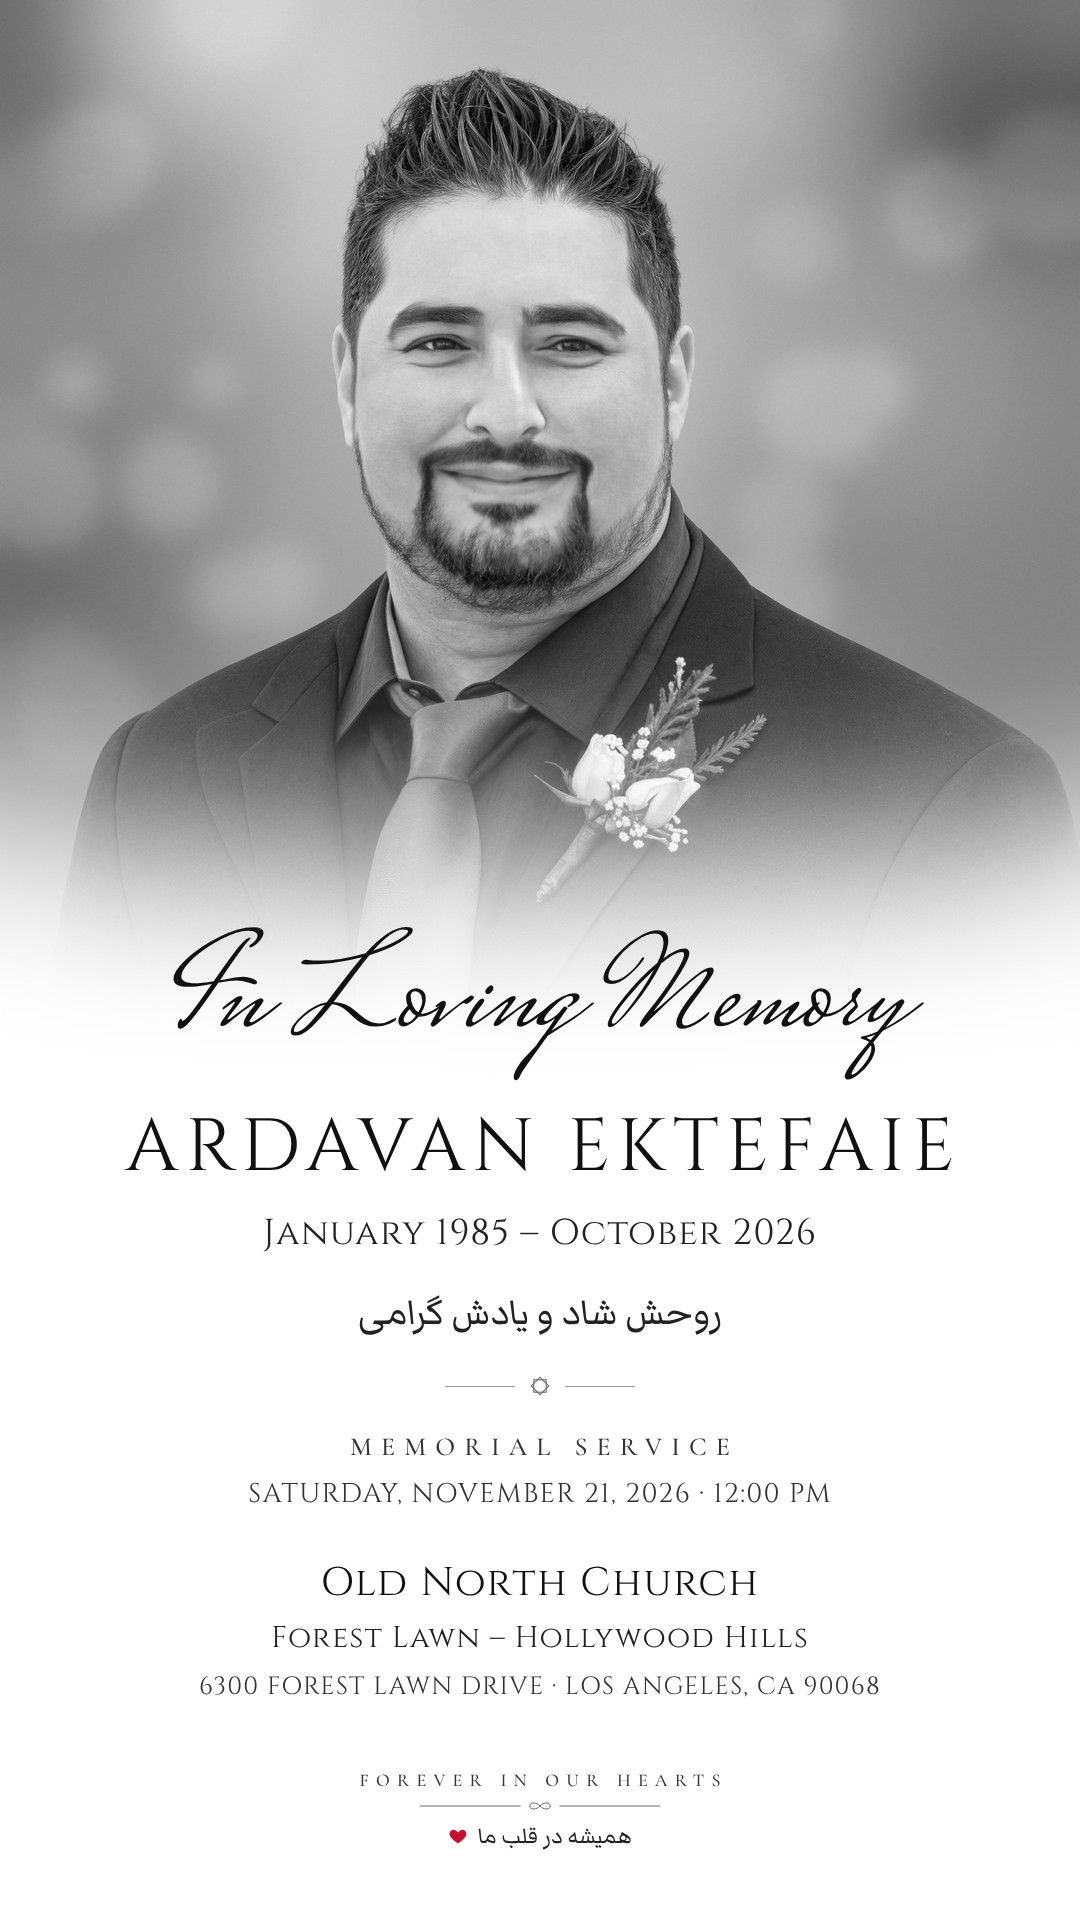
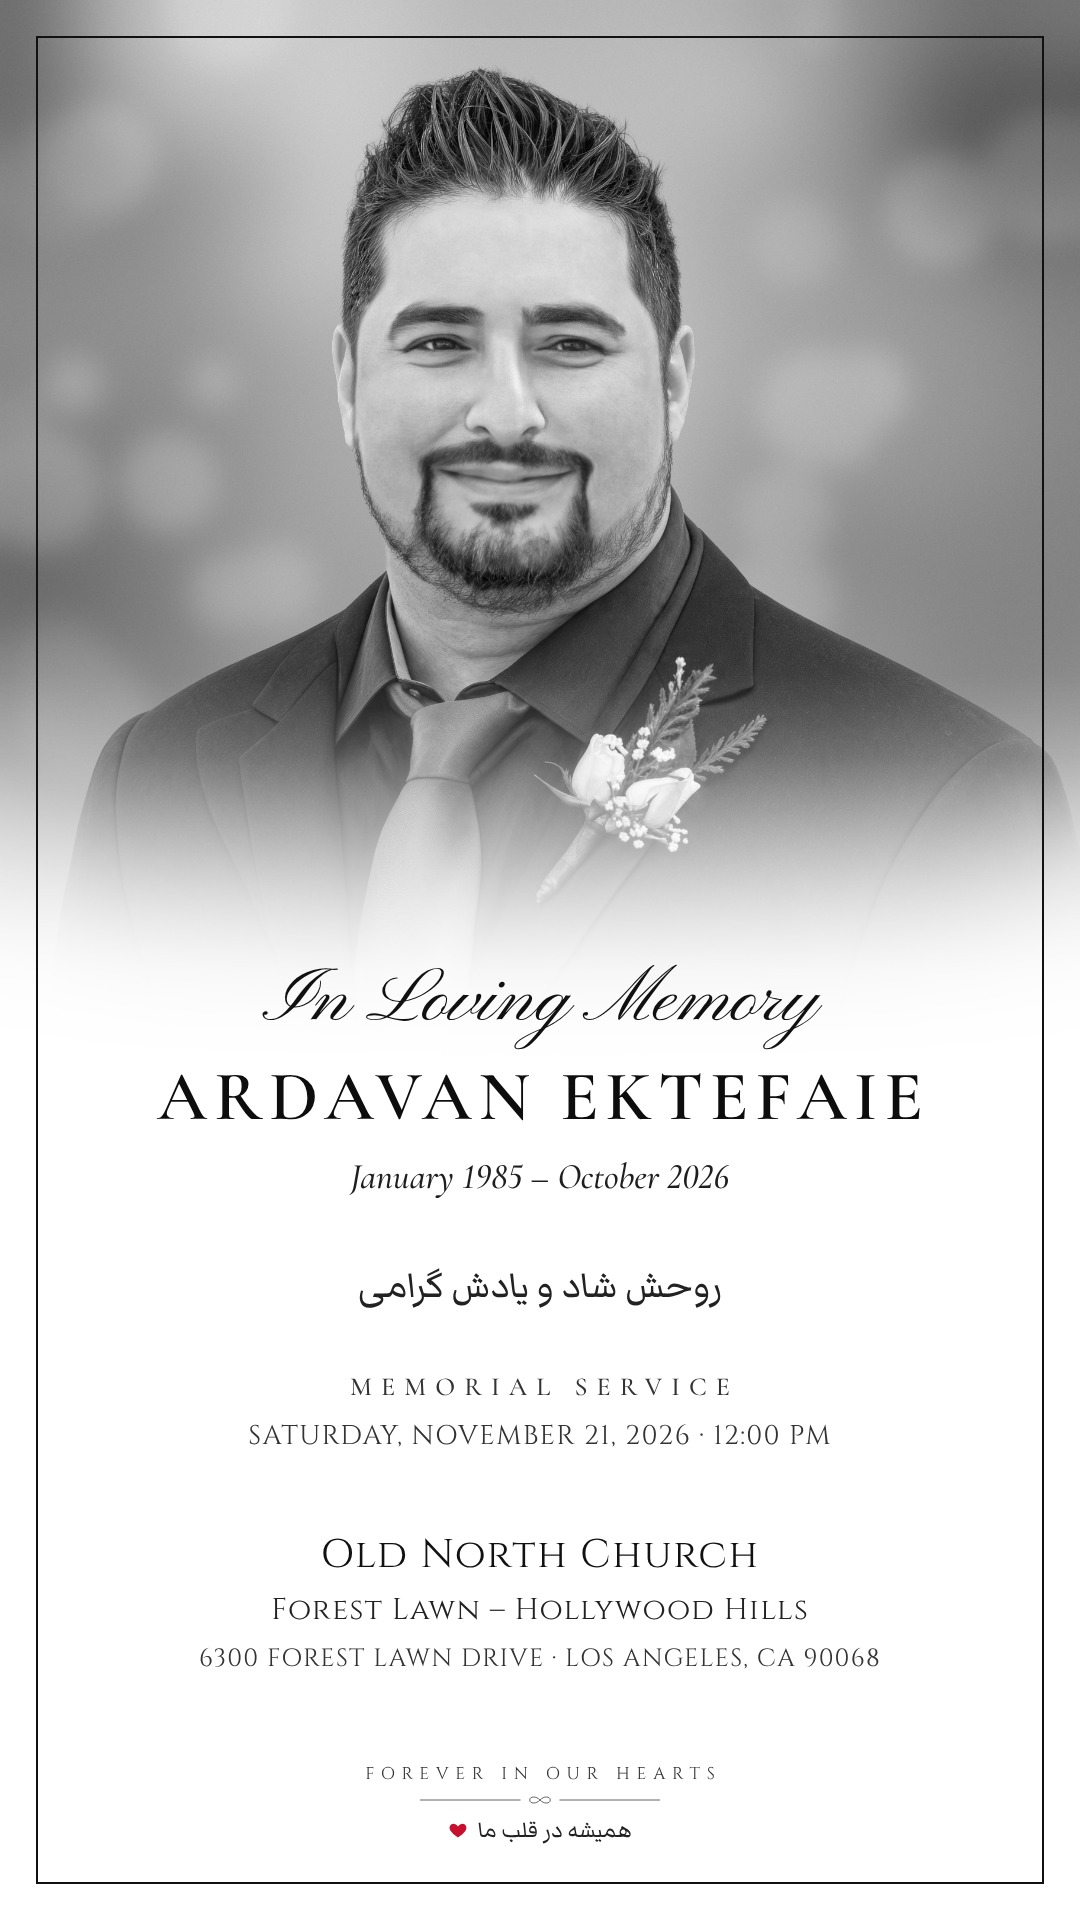
Final design (Dad's pick) for Cloudflare Pages

Changed region(s): [[0.1222, 0.4688, 0.8861, 0.875], [0.3667, 0.9062, 0.5806, 0.9688], [0.7333, 0.75, 0.7639, 0.7812]]

diff --git a/index.html b/index.html
@@ -7,10 +7,10 @@
 <meta name="description" content="Memorial Service · Saturday, November 21, 2026 · 12:00 PM · Old North Church, Forest Lawn – Hollywood Hills">
 <meta name="robots" content="noindex, nofollow">
 <meta property="og:type" content="website">
-<meta property="og:url" content="https://ardavan-ektefaie-memorial.netlify.app/">
+<meta property="og:url" content="https://ardavan-ektefaie.pages.dev/">
 <meta property="og:title" content="In Loving Memory of Ardavan Ektefaie">
 <meta property="og:description" content="Memorial Service · Saturday, November 21, 2026 · 12:00 PM · Old North Church, Forest Lawn – Hollywood Hills">
-<meta property="og:image" content="https://ardavan-ektefaie-memorial.netlify.app/preview.jpg">
+<meta property="og:image" content="https://ardavan-ektefaie.pages.dev/preview.jpg">
 <meta property="og:image:width" content="1080">
 <meta property="og:image:height" content="1440">
 <meta property="og:image:alt" content="Memorial invitation for Ardavan Ektefaie">
@@ -18,7 +18,7 @@
 <meta name="theme-color" content="#ffffff">
 <link rel="preconnect" href="https://fonts.googleapis.com">
 <link rel="preconnect" href="https://fonts.gstatic.com" crossorigin>
-<link href="https://fonts.googleapis.com/css2?family=Cinzel:wght@400;500&family=Mrs+Saint+Delafield&family=Cormorant+Garamond:wght@500&family=Markazi+Text:wght@400;500&display=block" rel="stylesheet">
+<link href="https://fonts.googleapis.com/css2?family=Cinzel:wght@400;500;700&family=Pinyon+Script&family=Cormorant+Garamond:ital,wght@0,500;0,600;1,500&family=Markazi+Text:wght@400;500&display=block" rel="stylesheet">
 <style>
 html,body{margin:0;height:100%;background:#fff}
 body{overflow:hidden}
@@ -35,33 +35,40 @@ body{overflow:hidden}
 <body>
 <div id="stage"><div id="scaler">
 <main class="card">
-
-<div style="position: relative; width: 1080px; height: 1240px; overflow: hidden">
-<img src="photo.jpg" alt="Ardavan Ektefaie" style="display: block; width: 1080px; height: 1350px; object-fit: cover; -webkit-mask-image: linear-gradient(to bottom, #000 0%, #000 72%, transparent 90%); mask-image: linear-gradient(to bottom, #000 0%, #000 72%, transparent 90%)">
-<div aria-hidden="true" style="position: absolute; left: 0; right: 0; bottom: 0; height: 560px; background: linear-gradient(to bottom, rgba(255,255,255,0) 0%, rgba(255,255,255,0.04) 10%, rgba(255,255,255,0.14) 20%, rgba(255,255,255,0.3) 30%, rgba(255,255,255,0.5) 40%, rgba(255,255,255,0.7) 50%, rgba(255,255,255,0.86) 60%, rgba(255,255,255,0.96) 70%, #FFFFFF 80%, #FFFFFF 100%)"></div>
-<p style="position: absolute; left: 0; right: 0; bottom: 168px; margin: 0; font-family: 'Mrs Saint Delafield', cursive; font-size: 132px; line-height: 1; color: #111111; text-align: center">In Loving Memory</p>
+<div style="position: relative; width: 1080px; height: 1080px; overflow: hidden">
+<img src="photo.jpg" alt="Ardavan Ektefaie" style="display: block; width: 1080px; height: 1350px; object-fit: cover; -webkit-mask-image: linear-gradient(to bottom, #000 0%, #000 50%, rgba(0,0,0,0.86) 56%, rgba(0,0,0,0.5) 64%, rgba(0,0,0,0.14) 72%, transparent 79%); mask-image: linear-gradient(to bottom, #000 0%, #000 50%, rgba(0,0,0,0.86) 56%, rgba(0,0,0,0.5) 64%, rgba(0,0,0,0.14) 72%, transparent 79%)">
 </div>
 
-<div style="position: relative; margin-top: -150px; display: flex; flex-direction: column; align-items: center; text-align: center; padding: 0 70px">
-<h1 style="margin: 18px 0 0; font-weight: 400; font-size: 74px; line-height: 1.1; letter-spacing: 0.1em; padding-left: 0.1em; color: #111111">ARDAVAN EKTEFAIE</h1>
-<p style="margin: 20px 0 0; font-size: 36px; letter-spacing: 0.03em; color: #222222">January 1985 – October 2026</p>
-<p lang="fa" dir="rtl" style="margin: 25px 0 0; font-family: 'Markazi Text', serif; font-size: 46px; line-height: 1.35; color: #222222">روحش شاد و یادش گرامی</p>
-<div id="star" aria-hidden="true" style="margin-top: 31px; display: flex; align-items: center; gap: 14px"><span style="display: block; width: 70px; height: 1px; background: #9A9A9A"></span><svg width="22" height="22" viewBox="0 0 16 16" fill="none" stroke="#6A6A6A" stroke-width="0.8"><rect x="3.5" y="3.5" width="9" height="9"></rect><rect x="3.5" y="3.5" width="9" height="9" transform="rotate(45 8 8)"></rect></svg><span style="display: block; width: 70px; height: 1px; background: #9A9A9A"></span></div>
-<p style="margin: 34px 0 0; font-family: 'Cormorant Garamond', Georgia, serif; font-size: 26px; font-weight: 500; letter-spacing: 0.35em; padding-left: 0.35em; color: #333333">MEMORIAL SERVICE</p>
-<a href="memorial-service.ics" aria-label="Add the memorial service on Saturday, November 21, 2026 at 12:00 PM to your calendar" style="margin-top: 14px"><span class="tap" style="font-size: 27px; letter-spacing: 0.05em; color: #333333">SATURDAY, NOVEMBER 21, 2026 · 12:00 PM</span></a>
-<a id="maps" href="https://www.google.com/maps/search/?api=1&amp;query=Old%20North%20Church%2C%20Forest%20Lawn%20Hollywood%20Hills%2C%206300%20Forest%20Lawn%20Drive%2C%20Los%20Angeles%2C%20CA%2090068" aria-label="Get directions to Old North Church, Forest Lawn – Hollywood Hills, 6300 Forest Lawn Drive, Los Angeles, CA 90068" style="margin-top: 44px; display: flex; flex-direction: column; align-items: center">
+<div style="position: relative; margin-top: -120px; display: flex; flex-direction: column; align-items: center; text-align: center; padding: 0 70px">
+
+<p style="margin: 0; font-family: 'Pinyon Script', cursive; font-size: 76px; line-height: 1.1; color: #111111">In Loving Memory</p>
+<h1 style="margin: 14px 0 0; font-family: 'Cormorant Garamond', Georgia, serif; font-weight: 600; font-size: 70px; line-height: 1.1; letter-spacing: 0.1em; padding-left: 0.1em; color: #0D0D0D">ARDAVAN EKTEFAIE</h1>
+<p style="margin: 20px 0 0; font-family: 'Cormorant Garamond', Georgia, serif; font-style: italic; font-weight: 500; font-size: 36px; color: #1E1E1E">January 1985 – October 2026</p>
+
+<p id="fa" lang="fa" dir="rtl" style="margin: 57px 0 0; font-family: 'Markazi Text', serif; font-size: 46px; line-height: 1.35; color: #222222">روحش شاد و یادش گرامی</p>
+
+<p id="mem" style="margin: 54px 0 0; font-family: 'Cormorant Garamond', Georgia, serif; font-size: 26px; font-weight: 500; letter-spacing: 0.35em; padding-left: 0.35em; color: #333333">MEMORIAL SERVICE</p>
+<a href="memorial-service.ics" aria-label="Add the memorial service on Saturday, November 21, 2026 at 12:00 PM to your calendar" style="margin-top: 16px"><span class="tap" style="font-size: 27px; letter-spacing: 0.05em; color: #333333">SATURDAY, NOVEMBER 21, 2026 · 12:00 PM</span></a>
+
+<a id="maps" href="https://www.google.com/maps/search/?api=1&amp;query=Old%20North%20Church%2C%20Forest%20Lawn%20Hollywood%20Hills%2C%206300%20Forest%20Lawn%20Drive%2C%20Los%20Angeles%2C%20CA%2090068" aria-label="Get directions to Old North Church, Forest Lawn – Hollywood Hills, 6300 Forest Lawn Drive, Los Angeles, CA 90068" style="margin-top: 74px; display: flex; flex-direction: column; align-items: center">
 <span style="font-size: 40px; letter-spacing: 0.04em; color: #111111">Old North Church</span>
 <span style="margin-top: 8px; font-size: 30px; letter-spacing: 0.04em; color: #222222">Forest Lawn – Hollywood Hills</span>
 <span class="tap" style="margin-top: 12px; font-size: 25px; letter-spacing: 0.05em; color: #333333">6300 FOREST LAWN DRIVE · LOS ANGELES, CA 90068</span>
 </a>
+
 </div>
 
-<div style="position: absolute; left: 0; right: 0; bottom: 64px; display: flex; flex-direction: column; align-items: center; text-align: center">
-<p style="margin: 0; font-family: 'Cormorant Garamond', Georgia, serif; font-size: 18px; font-weight: 500; letter-spacing: 0.4em; padding-left: 0.4em; color: #333333">FOREVER IN OUR HEARTS</p>
-<svg aria-hidden="true" width="240" height="14" viewBox="0 0 420 22" style="margin-top: 8px" fill="none" stroke="#555555" stroke-width="1.6"><line x1="0" y1="11" x2="176" y2="11"></line><path d="M210 11 C204 4 192 4 192 11 C192 18 204 18 210 11 C216 4 228 4 228 11 C228 18 216 18 210 11 Z"></path><line x1="244" y1="11" x2="420" y2="11"></line></svg>
+<div style="position: absolute; left: 0; right: 0; bottom: 70px; display: flex; flex-direction: column; align-items: center; text-align: center">
+<p style="margin: 0; font-size: 17px; letter-spacing: 0.4em; padding-left: 0.4em; color: #333333">FOREVER IN OUR HEARTS</p>
+<svg aria-hidden="true" width="240" height="14" viewBox="0 0 420 22" style="margin-top: 8px" fill="none" stroke="#555555" stroke-width="1.6">
+<line x1="0" y1="11" x2="176" y2="11"></line>
+<path d="M210 11 C204 4 192 4 192 11 C192 18 204 18 210 11 C216 4 228 4 228 11 C228 18 216 18 210 11 Z" stroke-width="1.6"></path>
+<line x1="244" y1="11" x2="420" y2="11"></line>
+</svg>
 <p lang="fa" dir="rtl" style="margin: 5px 0 0; font-family: 'Markazi Text', serif; font-size: 28px; line-height: 1.35; color: #222222">همیشه در قلب ما <svg role="img" aria-label="heart" width="20" height="20" viewBox="0 0 24 24" style="display: inline-block; vertical-align: -3px; margin-right: 5px"><path d="M12 21s-7.5-4.6-9.6-9.3C.9 8.3 3 4.5 6.6 4.5c2.1 0 3.6 1.2 5.4 3.2 1.8-2 3.3-3.2 5.4-3.2 3.6 0 5.7 3.8 4.2 7.2C19.5 16.4 12 21 12 21z" fill="#C8102E"></path></svg></p>
 </div>
 
+<div aria-hidden="true" style="position: absolute; top: 36px; left: 36px; right: 36px; bottom: 36px; border: 2px solid #111111; pointer-events: none"></div>
 </main>
 </div></div>
 <div class="save"><a href="invitation.jpg" download="Ardavan-Ektefaie-Memorial-Invitation.jpg">SAVE INVITATION</a></div>
@@ -74,7 +81,7 @@ body{overflow:hidden}
     var H=Math.max(1920, Math.min(2340, 1080*h/w));
     card.style.height=H+'px'; s.style.height=H+'px';
     var k=Math.min(w/1080,h/H);
-    var x=H-1920; document.getElementById('star').style.marginTop=(31+x*0.22)+'px'; document.getElementById('maps').style.marginTop=(44+x*0.3)+'px';
+    var x=H-1920; document.getElementById('fa').style.marginTop=(57+x*0.17)+'px'; document.getElementById('mem').style.marginTop=(54+x*0.17)+'px'; document.getElementById('maps').style.marginTop=(74+x*0.33)+'px';
     s.style.transform='scale('+k+')';
   }
   fit(); window.addEventListener('resize',fit);
